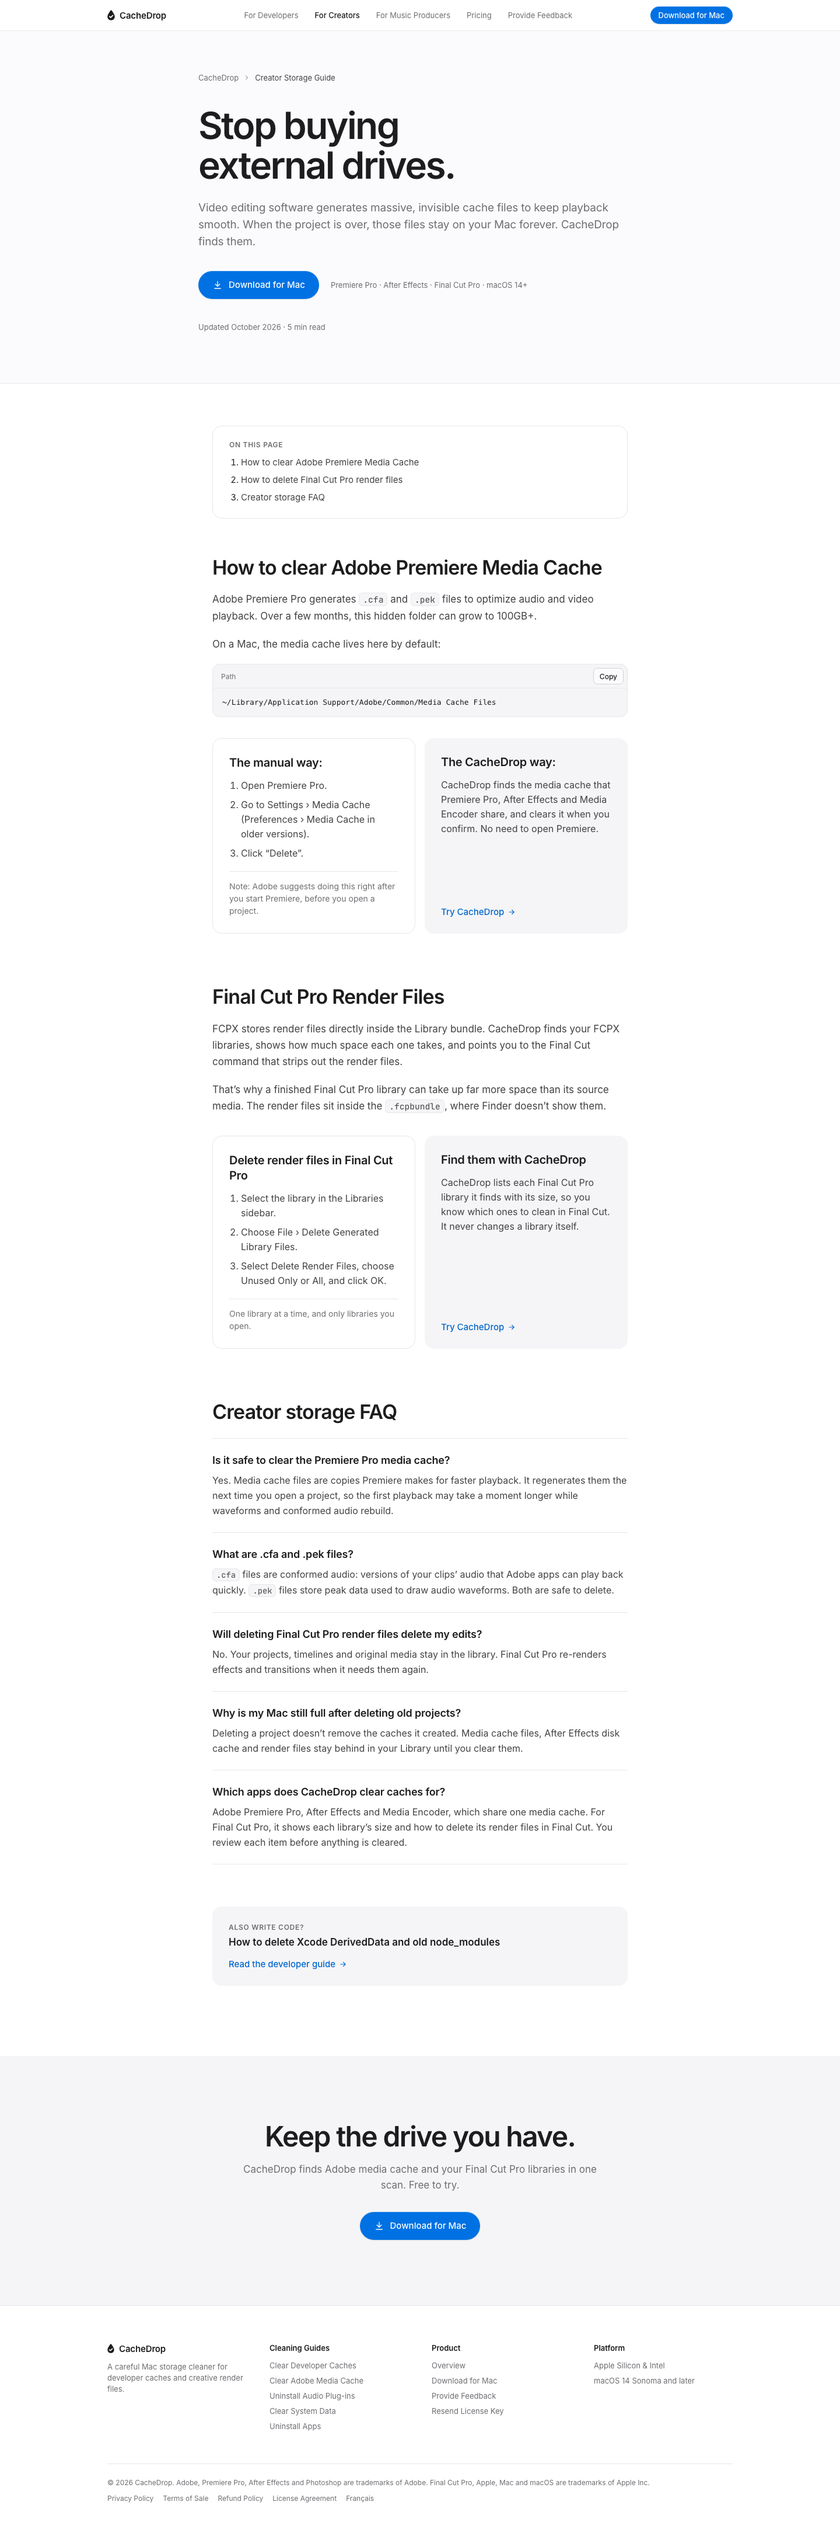
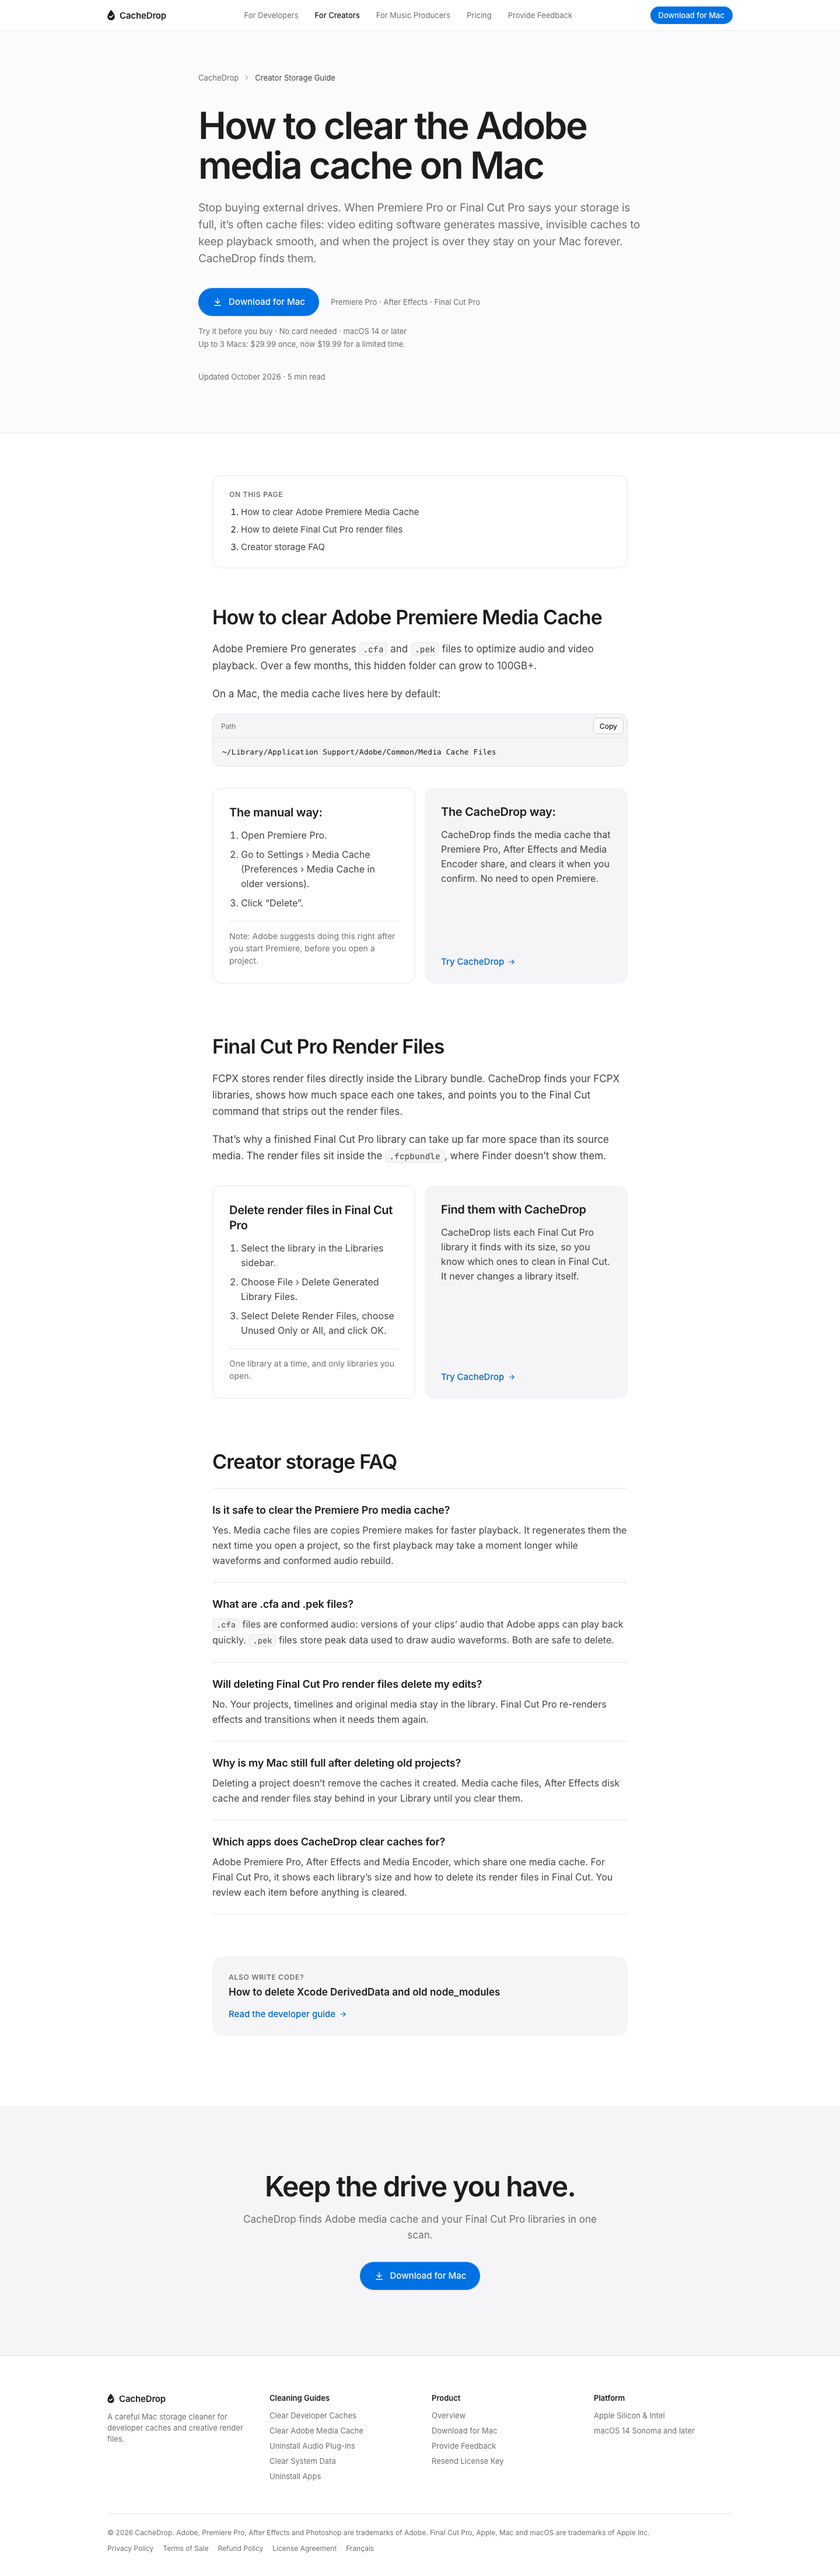
Guide H1s match the search and a shared download block (#112) (#123)
* Share the trial line through pricingCopy (#112)

The homepage's "Try it before you buy" line moves into pricingCopy
so the guides' download block reads the same string (Decision 51).
No visible change.

Claude-Session: https://claude.ai/code/session_01K3hKP6zK118AJXqy9xewcn

* Guide H1s match the search and every guide has the same download block (#112)

The developer and Adobe guides' H1s repeat the search; their old
benefit headlines open the lede, and the Adobe lede names "Final Cut
Pro storage full". Every guide's hero now shows the trial line under
the button, the price for up to 3 Macs, and the compare link once
compareLive is on. The note beside the button drops "macOS 14+",
which the trial line states, and the closing line drops "Free to try"
(Decision 51: the trial is stated once). Handoff copy fixes and the
guide reference renders follow.

Claude-Session: https://claude.ai/code/session_01K3hKP6zK118AJXqy9xewcn

---------

diff --git a/tests/copy-fixes.ts b/tests/copy-fixes.ts
@@ -14,8 +14,18 @@ export type CopyFix = { from: string; to: string; why: string };
 /** The pricing section as the handoff would write it (tests/fixtures/handoff-pricing-section.html). */
 const pricingSection = readFileSync(new URL('./fixtures/handoff-pricing-section.html', import.meta.url), 'utf8');
 
-/** The guides' closing line (Decision 44). */
-const guideClosing: CopyFix = { from: 'in one scan. Free while in beta.', to: 'in one scan. Free to try.', why: 'Decision 44: the guides’ closing line says “Free to try.”' };
+/** The guides' closing line: the trial is stated once, under the hero button (Decision 51, #112). */
+const guideClosing: CopyFix = { from: 'in one scan. Free while in beta.', to: 'in one scan.', why: 'Decision 51: the trial is stated once, under the primary button, so the closing line drops it (#112).' };
+
+/** The download block under each guide's hero button (#112): the trial line, then the price for up to 3 Macs. */
+const guideDownloadBlock = (note: string, newNote: string): CopyFix => ({
+  from: `${note}</span>\n</div>\n`,
+  to:
+    `${newNote}</span>\n</div>\n` +
+    `<p style="margin: 18px 0 0; font-size: 13px; color: #6E6E73">${pricingCopy.en.trial}</p>\n` +
+    `<p style="margin: 6px 0 0; font-size: 13px; color: #6E6E73">Up to 3 Macs: ${pricingCopy.en.license}.</p>\n`,
+  why: '#112 (Decision 51): every guide has the same download block. The trial line, with macOS 14, sits under the button, so the note beside it drops “macOS 14+”.',
+});
 
 export const copyFixes: Record<string, CopyFix[]> = {
   'index.html': [
@@ -110,8 +120,13 @@ export const copyFixes: Record<string, CopyFix[]> = {
   'clear-mac-developer-caches/index.html': [
     {
       from: 'Reclaim 50GB of forgotten code.',
-      to: 'Reclaim gigabytes of forgotten code.',
-      why: 'No measurement backs 50GB; the owner’s field scan found 3.5 GB of build folders and 17 GB of updater and package caches.',
+      to: 'How to clear Xcode DerivedData, node_modules and Docker caches on Mac',
+      why: '#112 (Decision 51): the H1 and Article headline repeat the search.',
+    },
+    {
+      from: 'If you write code on a Mac, your biggest space hog',
+      to: 'Reclaim gigabytes of forgotten code. If you write code on a Mac, your biggest space hog',
+      why: '#112: the benefit moves to the lede. No measurement backs 50GB; the owner’s field scan found 3.5 GB of build folders and 17 GB of updater and package caches.',
     },
     {
       from: 'Homebrew, npm and Dart package caches',
@@ -139,9 +154,16 @@ export const copyFixes: Record<string, CopyFix[]> = {
       why: '“These caches” included Dart’s .pub-cache, which the app doesn’t clean.',
     },
     { from: '<span>Download CacheDrop (Free)</span>', to: '<span>Download for Mac</span>', why: 'Decision 51: the hero and closing buttons.' },
+    guideDownloadBlock('Developer Mac cleaner · macOS 14+ · Apple Silicon &amp; Intel', 'Developer Mac cleaner · Apple Silicon &amp; Intel'),
     guideClosing,
   ],
   'clear-adobe-media-cache-mac/index.html': [
+    { from: 'Stop buying external drives.', to: 'How to clear the Adobe media cache on Mac', why: '#112 (Decision 51): the H1 and Article headline repeat the search.' },
+    {
+      from: 'Video editing software generates massive, invisible cache files to keep playback smooth. When the project is over, those files stay on your Mac forever. CacheDrop finds them.',
+      to: 'Stop buying external drives. When Premiere Pro or Final Cut Pro says your storage is full, it’s often cache files: video editing software generates massive, invisible caches to keep playback smooth, and when the project is over they stay on your Mac forever. CacheDrop finds them.',
+      why: '#112: the benefit moves to the lede, with the “Final Cut Pro storage full” search in plain words.',
+    },
     {
       from: 'Note: This only deletes caches for the open version of Premiere.',
       to: 'Note: Adobe suggests doing this right after you start Premiere, before you open a project.',
@@ -175,6 +197,7 @@ export const copyFixes: Record<string, CopyFix[]> = {
     },
     { from: '<span>Get Your Space Back (Free)</span>', to: '<span>Download for Mac</span>', why: 'Decision 51: the hero and closing buttons.' },
     { from: 'Get CacheDrop free', to: 'Try CacheDrop', why: 'Decision 51: the inline link to /download/.' },
+    guideDownloadBlock('Premiere Pro · After Effects · Final Cut Pro · macOS 14+', 'Premiere Pro · After Effects · Final Cut Pro'),
     guideClosing,
   ],
   'download/index.html': [

diff --git a/tests/pricing.spec.ts b/tests/pricing.spec.ts
@@ -1,6 +1,7 @@
 import { test, expect, type Page } from '@playwright/test';
 import { pages, ui } from './pages';
-import { compareLive } from '../src/components/pricing';
+import { compareLive, pricingCopy } from '../src/components/pricing';
+import { guides } from '../src/components/guides';
 
 // Pricing (Decisions 44 and 47) on every build: the launch setting retired with Decision 52.
 const withPricing = [...pages, { path: '/pricing/' }, { path: '/fr/pricing/', lang: 'fr' as const }];
@@ -201,11 +202,17 @@ for (const p of withPricing) {
   });
 }
 
-for (const path of ['/clear-mac-developer-caches/', '/clear-adobe-media-cache-mac/', '/fr/clear-mac-developer-caches/', '/fr/clear-adobe-media-cache-mac/']) {
-  test(`${path}: no Buy link on the guide`, async ({ page }) => {
+// Every guide has the same download block (#112, Decision 51): the trial line once, under the hero
+// button, and the price for up to 3 Macs. No Buy link, and no "Free to try" left in the closing line.
+for (const path of Object.values(guides).flatMap((g) => [g.path, `/fr${g.path}`])) {
+  test(`${path}: the download block states the trial once and the price, with no Buy link`, async ({ page }) => {
+    const lang = path.startsWith('/fr/') ? 'fr' : 'en';
     await page.goto(path);
     await expect(page.locator('a[href^="/buy"]')).toHaveCount(0);
-    await expect(page.getByText(path.startsWith('/fr/') ? /Essai gratuit\.$/ : /Free to try\.$/)).toBeVisible();
+    await expect(page.getByText(pricingCopy[lang].trial, { exact: true })).toHaveCount(1);
+    await expect(page.locator('main section').first().getByText(pricingCopy[lang].trial, { exact: true })).toBeVisible();
+    await expect(page.getByText(pricingCopy[lang].license, { exact: false }).first()).toBeVisible();
+    await expect(page.getByText(/Free to try|Essai gratuit/)).toHaveCount(0);
   });
 }
 

diff --git a/src/components/pricing.ts b/src/components/pricing.ts
@@ -31,6 +31,8 @@ const fr = (n: string) => `${n.replace('.', ',')}\u00a0$`;
 export const pricingCopy = {
   en: {
     eyebrow: 'Pricing',
+    // The trial, stated once under the primary button of the homepage and every guide (Decision 51).
+    trial: 'Try it before you buy · No card needed · macOS 14 or later',
     // Outcomes first, then the price (Decision 51, #113).
     title: 'Pay once. Use it on 3 Macs.',
     body: 'See what’s filling your Mac, clean it up safely, and remove apps and plug-ins completely. You check everything first, and your files go to the Trash, so nothing is lost by mistake.',
@@ -64,6 +66,7 @@ export const pricingCopy = {
   },
   fr: {
     eyebrow: 'Tarifs',
+    trial: 'Essayez-le avant d’acheter · Aucune carte requise · macOS 14 ou version ultérieure',
     title: 'Payez une seule fois. Utilisez-le sur 3 Mac.',
     body: 'Voyez ce qui remplit votre Mac, nettoyez-le en toute sécurité et désinstallez complètement applications et plug-ins. Vous vérifiez tout avant, et vos fichiers vont dans la Corbeille, donc rien n’est perdu par erreur.',
     name: 'Licence CacheDrop',
